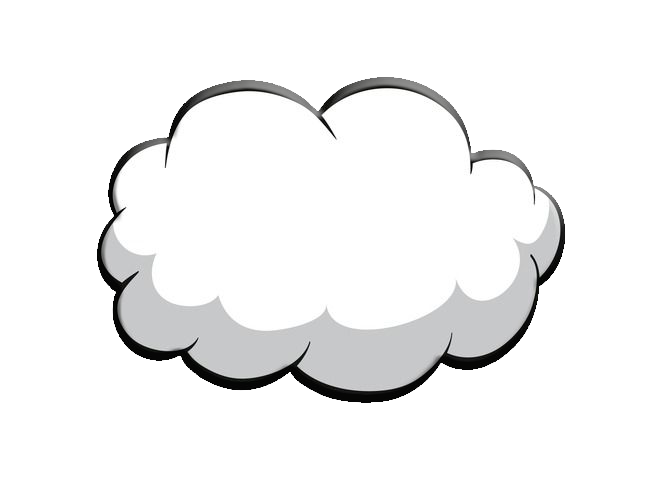
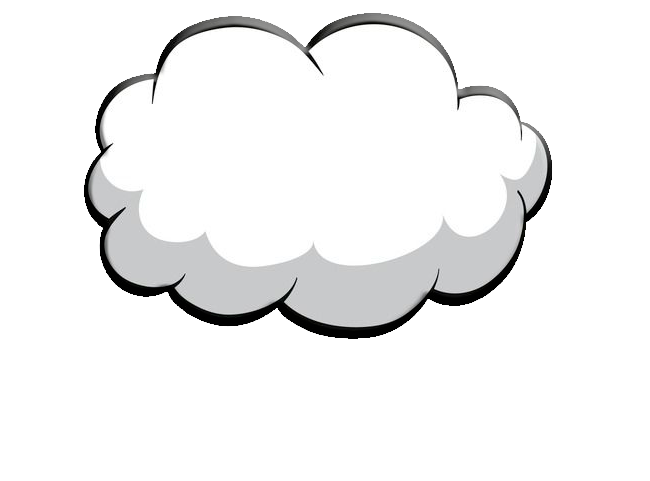
game_done

Changed region(s): [[0.1231, 0.0, 0.8923, 0.842]]

diff --git a/css/style.css b/css/style.css
@@ -28,24 +28,35 @@ body{
 }
 .button{
     width: 220px;
-    height: 150px;    
+    height: 200px;    
+    display: flex;
+    place-content: center;
     font-size: 25px;   
     font-weight: 600;  
     font-family: 'Coiny', cursive;    
     background-repeat: no-repeat;
-    background-size:cover;
+    background-size:100% 80%;
     background-color: transparent;
     background-image: url(../img/nube.png);
     border: none;
     cursor: pointer;
     margin-bottom: 40px;
-    transition: 1s;
+    transition: 0.5s;
     margin-top: 50px;  
 }
 .button:hover{
     color: rgb(126, 114, 93);
-    transition: 1s;
+    transition: 0.5s;
     background-image: url("../img/nube_invert.png");
+}
+
+#button_play:hover{
+     color: rgb(126, 114, 93);
+    transition: 0.5s;
+    background-image: url("../img/nube_invert_nieve.png");
+}
+span{
+    margin-top: 40px;
 }
 .button_songs{   
     grid-column: 1/3;
@@ -59,7 +70,7 @@ body{
     background-repeat: no-repeat;  
     cursor: pointer;
     border:none;
-    transition: 1s;
+    transition: 0.5s;
     margin-bottom: 0px;
 }
 .button_songs:hover{
@@ -167,7 +178,6 @@ h1{
     margin-top: 40px;
     margin-bottom: 50px;
 }
-
 #black_page{
     position:fixed;
     width: 100vw;
@@ -193,11 +203,9 @@ justify-content: center;
     grid-column: 1;
     grid-row: 1;
 }
-
 .liImg2{
     grid-column: 2;
     grid-row: 1;
-
 }
 li{
     cursor: pointer;
@@ -206,9 +214,10 @@ li{
     border-radius: 10px;
 }
 li:hover{
-    padding-left: 30px;
+    padding-left: 40px;
     transition: 0.5s;
     box-shadow: 0px 5px 15px black;
+    border-radius: 100%;
 
 }
 

diff --git a/index.html b/index.html
@@ -17,8 +17,8 @@
         <canvas id="canvas"  class="hidden" width="1700px", height="900px"> </canvas>           
         <container class="container">                           
                 <start  id="menu">
-                    <button id="button_start" class="button">Start</button>                     
-                    <button id="button_play" class="button">Settings</button>                                       
+                    <button id="button_start" class="button"><span>Start</span></button>                     
+                    <button id="button_play" class="button"><span>Menu</span></button>                                       
                 </start>   
                    <div id="song">                   
                       <h1>Choose the song</h1>    
